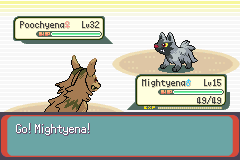
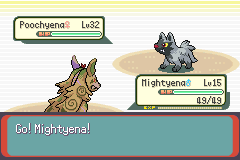
Use the picked back sprite for Eien Mightyena
The Gemini 3.1 Flash draft b replaces the recolored vanilla back. Checked in a battle.

Claude-Session: https://claude.ai/code/session_01G6mdd4rtnc9Ji3oyxMHNQm

Changed region(s): [[0.2042, 0.3438, 0.4375, 0.7188], [0.175, 0.6875, 0.2042, 0.7188]]

diff --git a/tools/eien_species/convert_art.py b/tools/eien_species/convert_art.py
@@ -48,6 +48,7 @@ BACK_PICKS = {
     "bulbasaur": "back_gemini31flash_b.png",
     "froakie": "back_gemini31flash_b.png",
     "poochyena": "back_gemini31flash_b.png",
+    "mightyena": "back_gemini31flash_b.png",
 }
 # species: chosen shiny palette in design/art/eien_<species>/shiny_drafts/ (shiny_drafts.py).
 # Species without one get an automatic hue shift.

diff --git a/design/art/eien_mightyena/README.md b/design/art/eien_mightyena/README.md
@@ -1,7 +1,7 @@
 # Drafts: Eien Mightyena
 
 **Picked:** `front_gemini3pro_c` (komainu). It's in the game (`tools/eien_species/convert_art.py`);
-in-game shots: `summary.png`, `battle_back.png` (placeholder back).
+in-game shots: `summary.png`, `battle_back.png`.
 
 Front sprite drafts for Eien Mightyena, the evolution of Eien Poochyena (`variants.md`). Nothing
 here is decided. Contact sheet: [../eien_mightyena_contact_sheet.png](../eien_mightyena_contact_sheet.png).
@@ -29,7 +29,9 @@ sampled to 64x64, its background removed and cut to 15 colors (`tools/sprite_pre
 - The white mark on the front leg comes from Eien Poochyena's sprite.
 - Frame 2, back, icon and shiny come after a pick, as for the other forms.
 
-## Back sprite drafts (proposals)
+## Back sprite drafts
+
+**Picked:** `back_gemini31flash_b`, in the game.
 
 Contact sheet: [../eien_mightyena_back_contact_sheet.png](../eien_mightyena_back_contact_sheet.png).
 Made like the other forms' backs: vanilla Mightyena's back and the picked front, enlarged 8x, went

diff --git a/design/variants.md b/design/variants.md
@@ -87,9 +87,9 @@ in the code).
   on evolving; Rock Throw (7) and Rock Tomb (16) carry over; otherwise vanilla Mightyena's
   learnset. The name stays "Eien Mightyena".
 - **Its sprite:** the "komainu" front draft (roaring, carved spiral mane and tail, red bib;
-  [art/eien_mightyena/](art/eien_mightyena/README.md)). Back, frame 2, shiny and icon are
-  placeholders for now: the vanilla back recolored to its palette, frame 1 raised 1px, an
-  automatic hue shift and the vanilla icon.
+  [art/eien_mightyena/](art/eien_mightyena/README.md)). Its back is an AI draft (3.1 Flash b).
+  Frame 2, shiny and icon are placeholders for now: frame 1 raised 1px, an automatic hue
+  shift and the vanilla icon.
 
 `TODO(design)`: which map sections count as shrine areas (Eien Poochyena doesn't evolve until
 they're decided), Eien Mightyena's dex entry (a draft is in the code).
